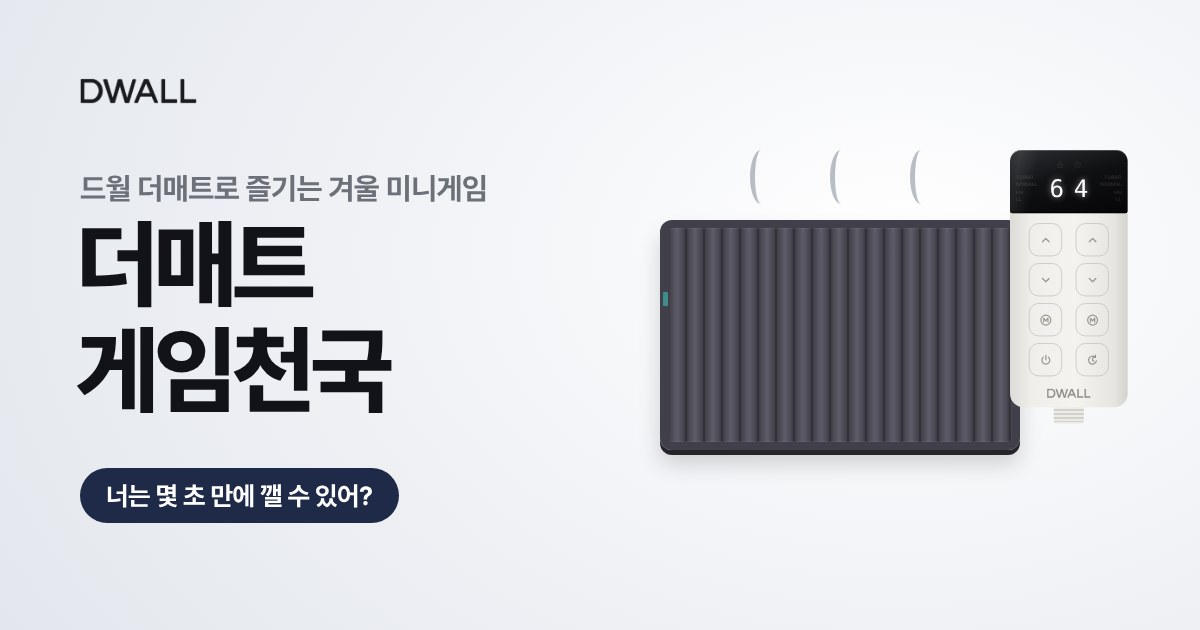
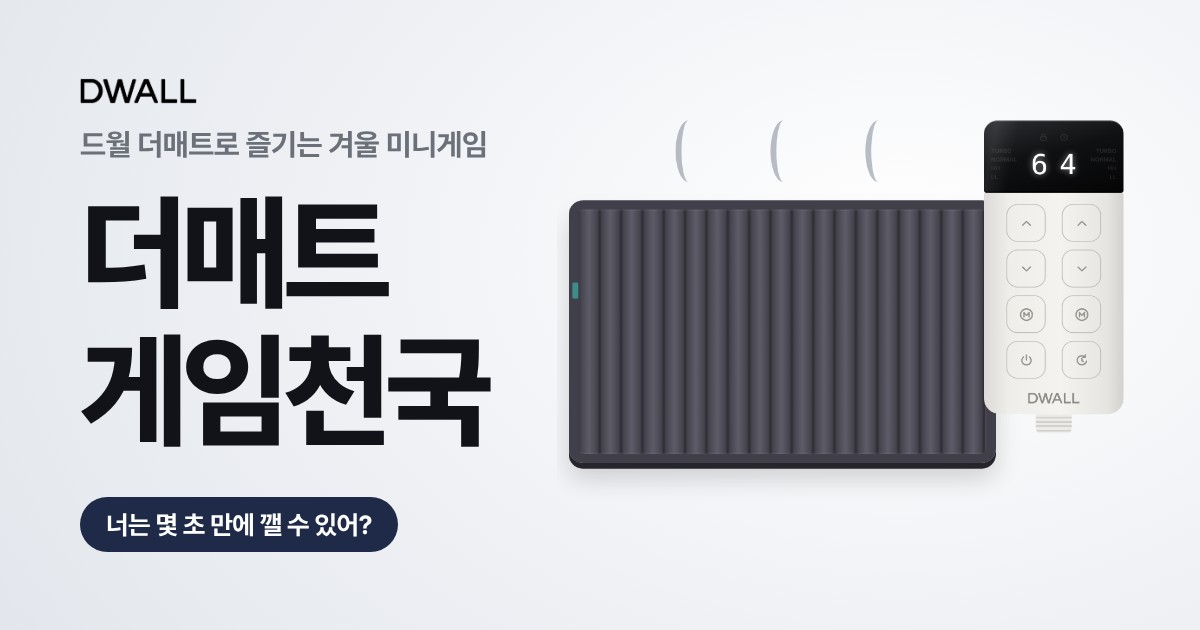
썸네일 수정본 반영
Claude-Session: https://claude.ai/code/session_01WXFAcWqDF66ANiuUQ3SqaF

diff --git a/index.html b/index.html
@@ -9,7 +9,7 @@
 <meta property="og:url" content="https://ihvvea.github.io/thematgame/">
 <meta property="og:title" content="더매트게임천국 | DWALL">
 <meta property="og:description" content="드월 더매트로 즐기는 겨울 미니게임. 너는 몇 초 만에 깰 수 있어?">
-<meta property="og:image" content="https://ihvvea.github.io/thematgame/og.jpg">
+<meta property="og:image" content="https://ihvvea.github.io/thematgame/og.jpg?v=2">
 <meta property="og:image:width" content="1200">
 <meta property="og:image:height" content="630">
 <meta name="twitter:card" content="summary_large_image">
